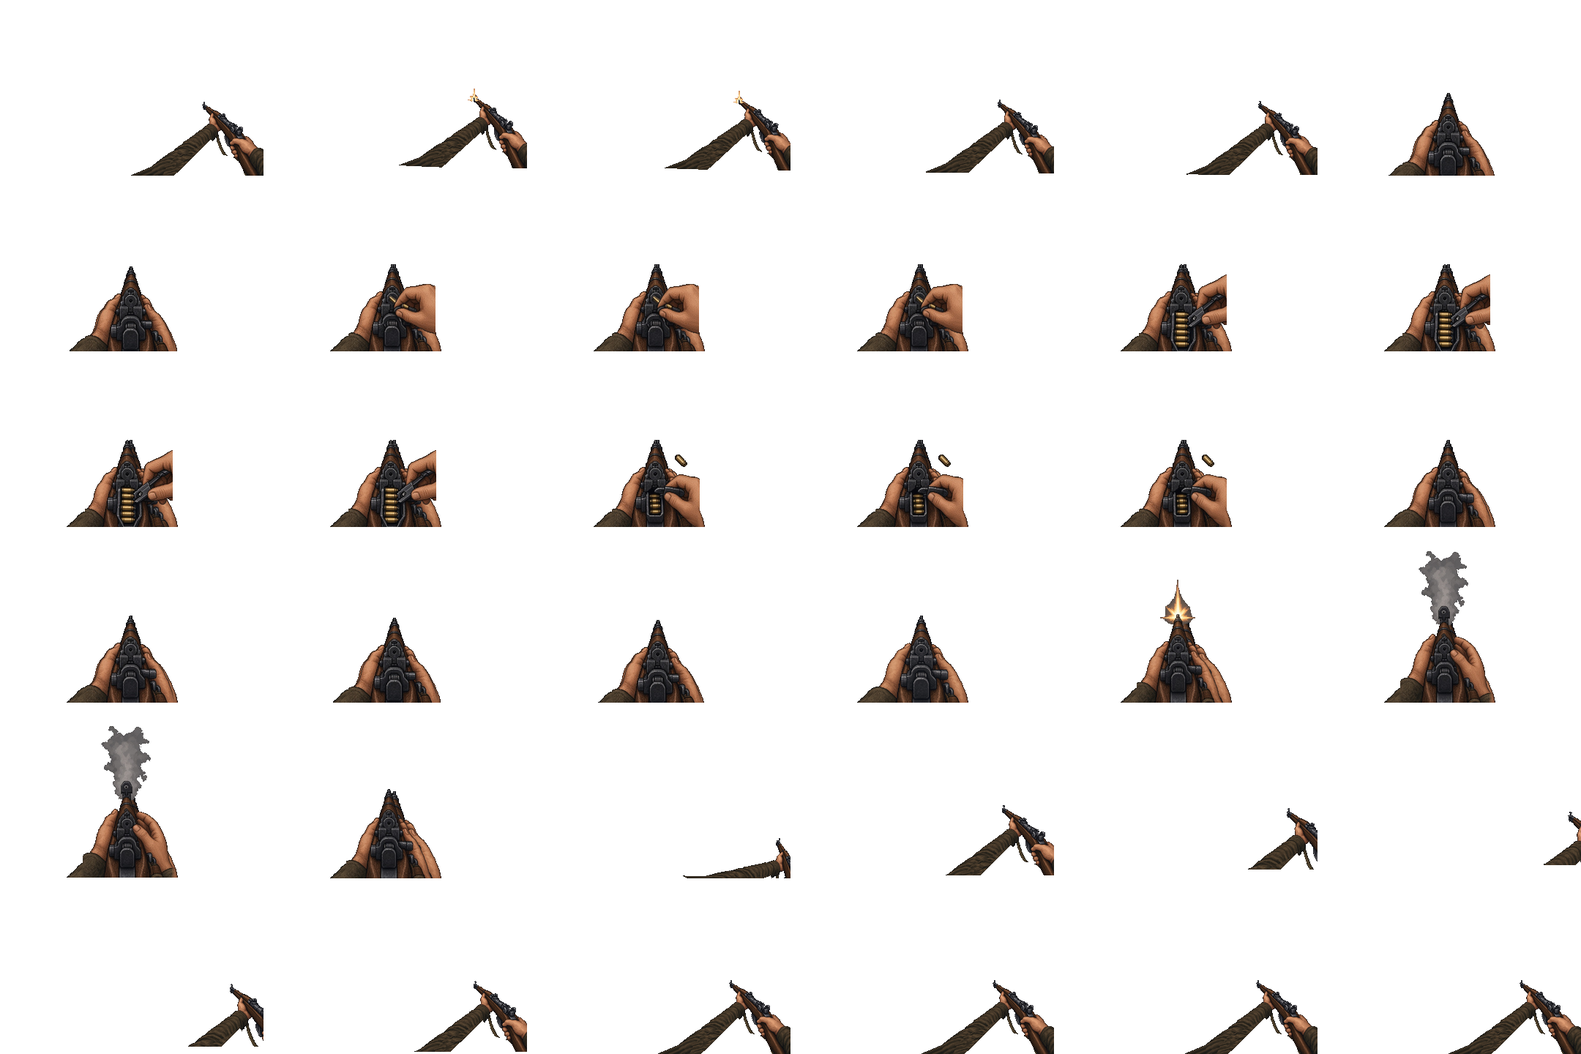
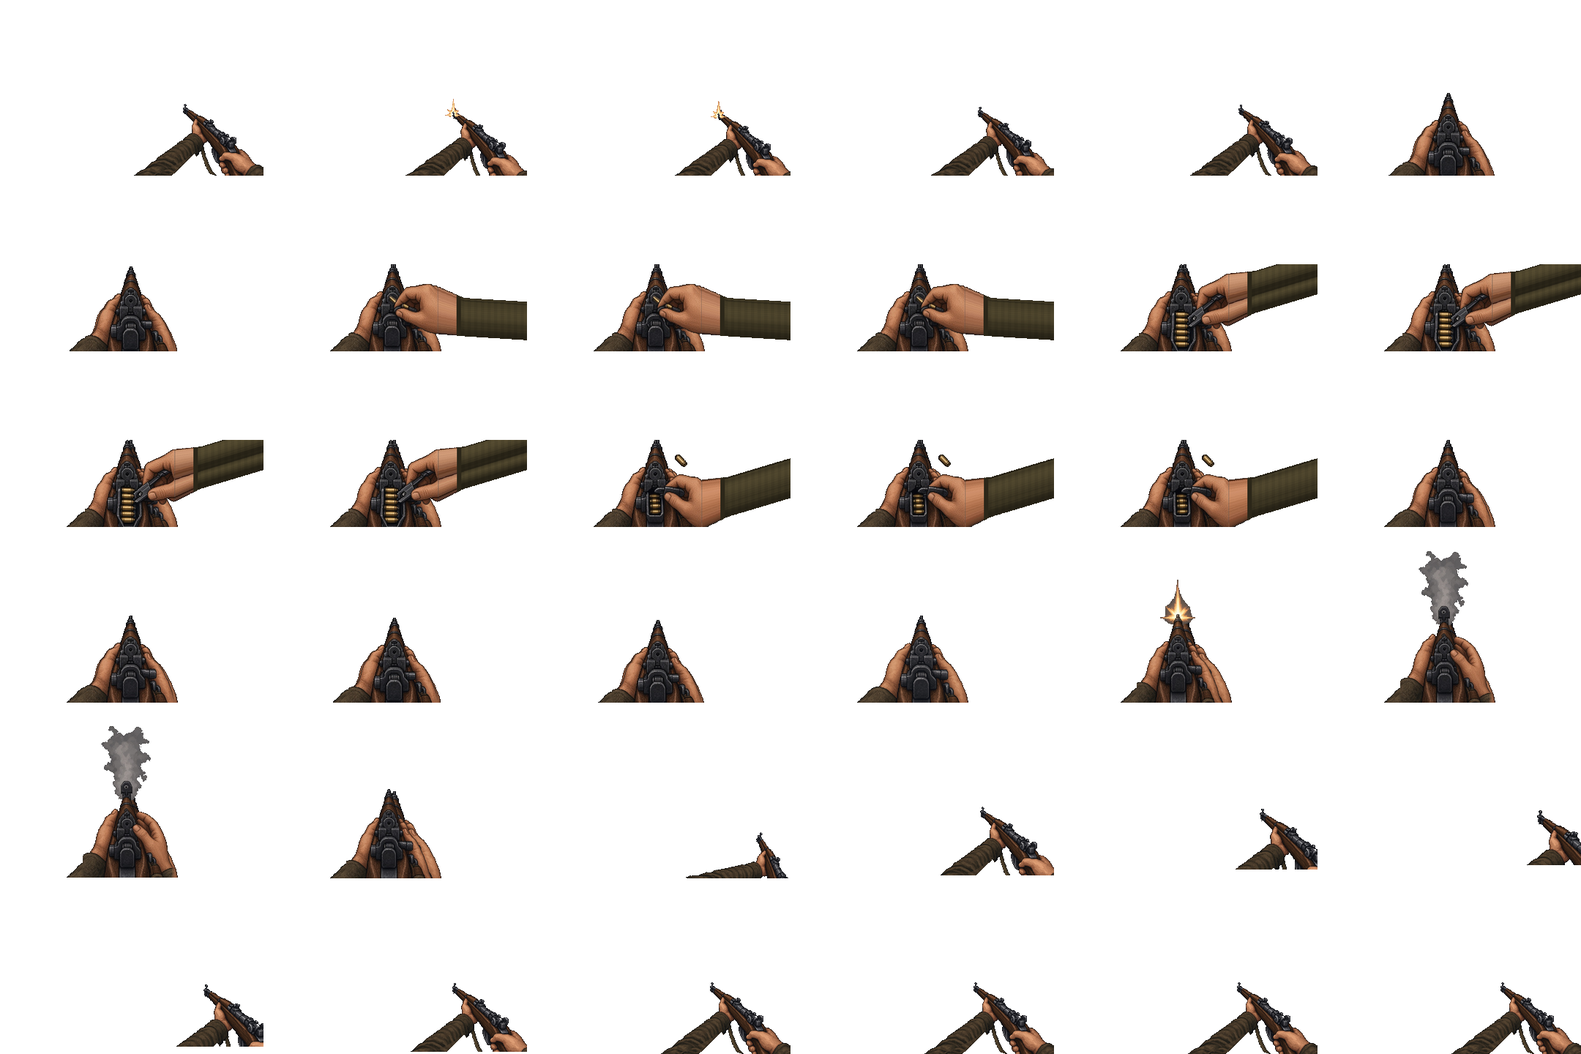
v0.39.1: rifle hip/recoil/reload art, lag readout (ping, server tick, fps)
Rifle hip view larger and lower (normal forearm), recoil straight back,
reload hand continued as a sleeve instead of a mid-air cut; carbine and
anti-tank rifle sheets rebuilt from the same art.

The corner readout adds the server's slowest recent tick and the
client's frame rate, and shows how long no data has arrived. The server
logs event-loop stalls and connections that are not keeping up. Gun
layer promoted; hit overlay cleared only when used.

Claude-Session: https://claude.ai/code/session_01RvCqKUzwLL4jv3Q2soH2oR

diff --git a/public/index.html b/public/index.html
@@ -68,7 +68,7 @@ body.menu #chat{display:none}
 body.menu #item,body.menu #fx,body.menu #mud,body.menu #supv,body.menu #chgv,body.menu #chg,body.menu #kf,body.menu #wheel,body.menu #maskv,body.menu #kn,body.menu #dpb,body.menu #gasv,body.menu #swt,body.menu #brt,body.menu #alf{display:none}
 #hurt{position:fixed;inset:0;background:radial-gradient(transparent 40%,#a00 100%);opacity:0;pointer-events:none}
 #vv{position:fixed;inset:0;width:100%;height:100%;image-rendering:pixelated;pointer-events:none;display:none}body.menu #vv{display:none!important}
-#item{display:none}#gun,#item{--gw:max(150vh,100vw);position:fixed;top:50%;left:50%;width:var(--gw);height:calc(var(--gw) / 1.5);margin-left:calc(var(--gw) / -2);margin-top:calc(var(--gw) / -3);image-rendering:pixelated;pointer-events:none}   /* v0.29: always as wide as the screen (hands and stocks reach the edges), centre on the screen centre */
+#item{display:none}#gun,#item{will-change:transform;--gw:max(150vh,100vw);position:fixed;top:50%;left:50%;width:var(--gw);height:calc(var(--gw) / 1.5);margin-left:calc(var(--gw) / -2);margin-top:calc(var(--gw) / -3);image-rendering:pixelated;pointer-events:none}   /* v0.29: always as wide as the screen (hands and stocks reach the edges), centre on the screen centre */
 #tut{pointer-events:auto;position:fixed;top:64px;left:50%;transform:translateX(-50%);z-index:15;display:none;max-width:min(560px,92vw);background:#1b1a14e8;border:1px solid #8a7a4a;border-radius:4px;padding:8px 12px 8px 14px;color:#eee;font:14px 'Courier New',monospace;box-shadow:0 2px 10px #0008}#tut b{color:#e9c46a}#tut small{display:block;color:#aaa;margin-top:3px}#tut button{float:right;margin:0 0 4px 10px;background:#3a3526;color:#ddd;border:1px solid #776;font:12px monospace;padding:2px 7px;cursor:pointer}#tut i{display:block;height:3px;background:#333;margin-top:6px}#tut i b{display:block;height:3px;background:#e9c46a}
 #tc{position:fixed;inset:0;display:none;z-index:14;pointer-events:none;touch-action:none;user-select:none;-webkit-user-select:none}
 #tc button{pointer-events:auto;position:absolute;border-radius:50%;background:rgba(20,18,14,.42);border:2px solid rgba(222,204,150,.55);color:#efe3c0;font:bold 11px monospace;letter-spacing:.04em;padding:0;touch-action:none}
@@ -694,7 +694,7 @@ function onMsg(m){
   case'wh':whistleSnd();$('banner').innerHTML='OVER THE TOP!<small>All squads attack '+String(m.n).replace(/[<>&]/g,'')+'</small>';$('banner').style.opacity=1;bannerT=performance.now()+4000;break;
   case'dr':addCrate(m);break;
   case'drx':{const c=crateM.get(m.id);if(c){scene.remove(c.m);crateM.delete(m.id)}break}
-  case'pong':ping=Math.round(performance.now()-m.c);pingAt=performance.now();break;
+  case'pong':ping=Math.round(performance.now()-m.c);pingAt=performance.now();srvMs=m.s|0;srvGap=m.g|0;break;
   case'opn':opBanner(m);break;
   case'oob':oobUntil=m.s?performance.now()+m.s*1000:0;break;
   case'end':roundState='ended';overlay('<h1>'+(m.win===0?'BLUE':'GREEN')+' WINS THE TERRITORY</h1>'+(opS?(opS[0]===me.team?(m.win===me.team?'Your attack broke through every line.':'Your attack ran out of men.'):(m.win===me.team?'Your line held. The enemy is spent.':'The enemy broke through your last line.')):(m.win===me.team?'Your side broke the line.':'Your side was overrun.'))+'<br>Next round the sides swap: attackers defend.'+'<br>New round starting shortly…'+aarHtml(m),'');document.exitPointerLock();break;
@@ -953,7 +953,7 @@ function connectScreen(){let nm='';try{nm=localStorage.getItem('t128name')||''}c
  <b>Wrecked guns.</b> Shells knock out MG nests, field guns and AA guns; hold E beside one to repair it (sappers are fastest).<br>
  <b>Phones.</b> Touch controls turn on by themselves; play in landscape. The ✎ button lets you move the buttons where you like.<br>
  <b>Your career.</b> Every game earns XP toward 100 levels and the ranks up to General. Your service record is on this screen.
- </div></details><div class="ver">v0.39</div>`,'');
+ </div></details><div class="ver">v0.39.1</div>`,'');
  $('cn').onclick=()=>{const n=$('nm').value.trim();const hv=$('host').value.trim();if(!hv){$('ovb').querySelector('.err').textContent='Enter the server address';return}try{localStorage.setItem('t128name',n);localStorage.setItem('t128host',hv)}catch(e){}AC=AC||new (window.AudioContext||window.webkitAudioContext)();sfxLoad();connect(n,$('host').value.trim())};
  $('nm').onkeydown=e=>{if(e.key==='Enter')$('cn').click()};$('pw').onkeydown=e=>{if(e.key==='Enter')$('lg').click()};
  if(LNCH&&typeof LNCH.back==='function'){const b=document.createElement('button');b.id='lnb';b.textContent='Back to launcher';b.onclick=()=>LNCH.back();$('rg').after(' ',b)}if(autoJoin&&$('nm').value.trim()){autoJoin=false;setTimeout(()=>{if($('cn'))$('cn').click()},60)}
@@ -1110,14 +1110,19 @@ function stepSnd(f,s,bits){if(me.sld>0||!me.alive||me.cl||me.y>T.groundAt(terr.H
 /* v0.38: your own shot (kick, sound, tracer) is shown the instant you fire, not when the server's answer comes back a ping
    later. predTick mirrors the server's own rules (rate of fire, sprint-to-fire delay, semi-automatic trigger); each shot the
    server then confirms is matched against a shown one, and a shown shot that is never confirmed is simply forgotten. */
-const predAt=[];let pCd=0,pSpr=0,pHold=false,netGap=0,netGapAt=0,lastSnapAt=0,pingAt=0;
+const predAt=[];let pCd=0,pSpr=0,pHold=false,netGap=0,netGapAt=0,lastSnapAt=0,pingAt=0,srvMs=0,srvGap=0,nfN=0,nfT=0,nfMax=0,nfFps=0,nfWorst=0,nfLast=0;
 function shotFx(){const W=WPN[me.w]||{},cp=Math.cos(me.pitch),dx=-Math.sin(me.yaw)*cp,dy=Math.sin(me.pitch),dz=-Math.cos(me.yaw)*cp;TUT.shot=1;gunKick=W.flame?.25:1;gFire=0;recoil();if(!(W.flame&&!me.mg))ownShot(me.mg?'mg':me.w);if(me.mg||(W.pel===1&&!W.flame))tracer(me.x,me.y+me.eye,me.z,dx,dy,dz,me.mg?140:W.rng,true,me.mg?420:W.vel)}
 function predTick(dt,bits,f,s){pCd-=dt;pSpr=(bits&1)&&(f||s)&&!me.mg?.18:pSpr-dt;const want=!!(bits&8),W=WPN[me.w],now=performance.now();
  while(predAt.length&&now-predAt[0]>ping*1.5+700)predAt.shift();
  if(want&&W&&!W.flame&&me.alive&&!me.mg&&!myVeh&&!me.elite&&!me.rel&&!me.charging&&!me.cl&&!me.rg&&pSpr<=0&&pCd<=0&&(W.auto||!pHold)&&(me.ammo|0)-predAt.length>0&&!(maskAt>now)){pCd=W.cd*(me.cls==='rifleman'&&me.w==='bolt'?.8:1);predAt.push(now);shotFx()}
  pHold=want}
-function netTick(now){const el=$('net');if(!deployed){if(el.textContent)el.textContent='';return}if(now-netGapAt>2500){netGap=0;netGapAt=now}
- const lost=lastSnapAt&&now-lastSnapAt>1500,rough=netGap>260,c=lost||ping>=180?'#e04030':ping>=90||rough?'#e0b040':'#8fbf6a',t=lost?'NO SIGNAL':'PING '+ping+' ms'+(rough?' · unsteady':'');if(el.textContent!==t)el.textContent=t;if(el.style.color!==c)el.style.color=c}
+/* v0.39 the corner readout says where a hitch comes from: PING = the round trip (it also rises when this PC is too busy to
+   read the answer in time), SERVER = its slowest tick in the last 2 s (over 50 ms it is falling behind), FPS = this PC, with the
+   slowest frame when one took over 50 ms. No data at all for 1.5 s: NO DATA and for how long. */
+function netTick(now){const el=$('net');if(nfLast){const d=now-nfLast;nfN++;nfT+=d;if(d>nfMax)nfMax=d}nfLast=now;if(nfT>1000){nfFps=Math.round(nfN*1000/nfT);nfWorst=Math.round(nfMax);nfN=nfT=nfMax=0}
+ if(!deployed){if(el.textContent)el.textContent='';return}if(now-netGapAt>2500){netGap=0;netGapAt=now}
+ const quiet=lastSnapAt?now-lastSnapAt:0,lost=quiet>1500,rough=netGap>260,busy=srvMs>=50||srvGap>=120,slow=nfWorst>50,c=lost||ping>=180?'#e04030':ping>=90||rough||busy||slow?'#e0b040':'#8fbf6a';
+ const t=lost?'NO DATA FROM SERVER '+(quiet/1000).toFixed(1)+' s':'PING '+ping+' ms'+(rough?' · unsteady':'')+' · SERVER '+srvMs+' ms'+(busy?' (busy)':'')+' · '+nfFps+' FPS'+(slow?' (worst frame '+nfWorst+' ms)':'');if(el.textContent!==t)el.textContent=t;if(el.style.color!==c)el.style.color=c}
 function recoil(){const w=me.mg?{rcl:.012}:WPN[me.w]||{},k=(w.rcl||.02)*(adsNow?.75:1)*(.85+Math.random()*.3);me.pitch=Math.min(1.45,me.pitch+k);me.yaw+=(Math.random()-.5)*k*.6;recPend+=k*.6;punch+=k*1.1}   /* muzzle climbs; about 60% settles back on its own */
 function feelTick(dt){
  if(recPend>0){const r=Math.min(recPend,recPend*dt*7+dt*.01);me.pitch-=r;recPend-=r}
@@ -1126,7 +1131,7 @@ function feelTick(dt){
  const ch=!!(me.charging&&me.alive&&deployed);$('chgv').style.opacity=ch?.9:Math.max(0,+$('chgv').style.opacity-dt*3)||0;
  const cb=$('chg'),wb=WPN[me.w];if(deployed&&me.alive&&!me.mg&&wb&&wb.bay&&me.chg!=null&&(me.chg<T.chgMax(me)-.01||ch)){cb.style.display='block';cb.firstChild.style.width=(me.chg/T.chgMax(me)*100)+'%'}else cb.style.display='none'}
 const fxc=$('fx').getContext('2d'),mdc=$('mud').getContext('2d');
-function fxDraw(dt){fxc.clearRect(0,0,360,240);if(!deployed||!me.alive)ddL.length=0;
+let fxDirty=false;function fxDraw(dt){if(fxDirty||ddL.length){fxc.clearRect(0,0,360,240);fxDirty=ddL.length>0}if(!deployed||!me.alive)ddL.length=0;
  for(let i=ddL.length-1;i>=0;i--){const d=ddL[i];d.t-=dt;if(d.t<=0){ddL.splice(i,1);continue}const ca=-Math.PI/2-(Math.atan2(-(d.x-me.x),-(d.z-me.z))-me.yaw),al=Math.min(1,d.t);
   fxc.lineWidth=5;fxc.strokeStyle='rgba(150,14,6,'+al*.85+')';fxc.beginPath();fxc.arc(180,120,46,ca-.38,ca+.38);fxc.stroke();fxc.lineWidth=2;fxc.strokeStyle='rgba(235,70,40,'+al*.8+')';fxc.beginPath();fxc.arc(180,120,51,ca-.2,ca+.2);fxc.stroke()}   /* red arc toward whoever hit you */
  if(mudA>0){mudA=Math.max(0,mudA-dt*.3);$('mud').style.opacity=Math.min(1,mudA)}}

diff --git a/server.js b/server.js
@@ -1978,6 +1978,18 @@ const PROF = new Map(); let profOn = true;
 const hr = () => Number(process.hrtime.bigint()) / 1e6;
 function prof(name, ms) { PROF.set(name, (PROF.get(name) || 0) + ms); }
 function guard(name, fn, a) { const t = profOn ? hr() : 0; try { fn(a); } catch (e) { const n = guardAt.get(name) || 0; if (Date.now() - n > 60000) { guardAt.set(name, Date.now()); console.error('[' + name + '] error (game keeps running):', e && e.stack || e); } } finally { if (profOn) prof(name, hr() - t); } }
+// v0.39 load shown to players: the worst tick and the worst wait between ticks over the last ~2 s ride on every pong, so a
+// player's own screen can tell a busy server from a bad connection or a slow PC. Long stalls are also logged.
+const LOADW = [[0, 0], [0, 0]]; let loadAt = 0, loadPrev = 0, netLogAt = 0;
+function loadNote(ms) {
+  const now = hr(), gap = loadPrev ? now - loadPrev : 0; loadPrev = now;
+  if (now - loadAt > 1000) { loadAt = now; LOADW[1] = LOADW[0]; LOADW[0] = [0, 0]; }
+  if (ms > LOADW[0][0]) LOADW[0][0] = ms; if (gap > LOADW[0][1]) LOADW[0][1] = gap;
+  if (gap > 400) console.log(`[stall] ${Math.round(gap)} ms between ticks (this tick ${ms.toFixed(1)} ms): the server process was held up (CPU taken by another program, or memory swapping)`);
+  if (now - netLogAt > 5000) { netLogAt = now; for (const p of humans) { if (!p.ws || !p.ws.open || !p.deployed) continue; const w = p.ws.socket.writableLength, idle = p.inAt ? now - p.inAt : 0;
+    if (w > 60000 || idle > 2500) console.log(`[net] ${p.name}: ${Math.round(w / 1024)} KB waiting to be sent, last input ${Math.round(idle)} ms ago, ping ${p.ping == null ? '?' : p.ping} ms (their connection is not keeping up)`); } }
+}
+const loadNow = () => [Math.round(Math.max(LOADW[0][0], LOADW[1][0])), Math.round(Math.max(LOADW[0][1], LOADW[1][1]))];
 function tickBody() {
   const t0 = process.hrtime.bigint(); tickNo++; PROF.clear();
   { const now = hr(); if (lastTickAt) { const gap = now - lastTickAt; if (gap > gapMax) gapMax = gap; } lastTickAt = now; }
@@ -2003,7 +2015,7 @@ function tickBody() {
   { const t = hr(); broadcastState(); prof('send', hr() - t); }
   if (bodies.length) { bcast({ t: 'bd', b: bodies.splice(0) }); }
   shots.length = 0; for (const e of ents.values()) if (e.flash > 0) e.flash--;
-  const ms = Number(process.hrtime.bigint() - t0) / 1e6; tickMs += ms; tickMax = Math.max(tickMax, ms);
+  const ms = Number(process.hrtime.bigint() - t0) / 1e6; tickMs += ms; tickMax = Math.max(tickMax, ms); loadNote(ms);
   if (ms > SLOW_MS) { slowN++; const top = [...PROF].sort((a, b) => b[1] - a[1]).slice(0, 4).map(([k, v]) => k + ' ' + v.toFixed(1)).join(', ');
     if (Date.now() - slowLogAt > 5000) { slowLogAt = Date.now(); console.log(`[slow tick ${tickNo}] ${ms.toFixed(1)} ms: ${top} (${humans.size} humans, ${ents.size} soldiers)`); } }
   if (xpDirty && tickNo % 200 === 0) saveXp();
@@ -2060,7 +2072,7 @@ function onText(c, txt) {
       else tell(p, 'Loadout will apply when you next respawn.');
     }
   } else if (m.t === 'in') {
-    if (!p.deployed || !Array.isArray(m.c)) return;
+    if (!p.deployed || !Array.isArray(m.c)) return; p.inAt = hr();
     for (const c2 of m.c.slice(0, 20)) if (Array.isArray(c2) && c2.length >= 7) p.q.push(c2);
     if (Number.isFinite(m.rt)) p.rw = clamp(tickNo - (m.rt | 0), 0, LAGC_MAX);   // how far behind the server this player's view is
     if (p.q.length > 60) p.q.splice(0, p.q.length - 60);
@@ -2071,7 +2083,7 @@ function onText(c, txt) {
   } else if (m.t === 'wxs' && process.env.T128_TEST && T.WXS[m.k]) { setWx(m.k);
   } else if (m.t === 'act') onAct(p, String(m.a), m);
   else if (m.t === 'cmd') { if (p.deployed && p.cmd && p.alive) { if (m.k === 'order') issueOrder(p, m); else if (m.k === 'sup') callSupport(p, m); } }
-  else if (m.t === 'ping') { if (Number.isFinite(m.p)) p.ping = clamp(Math.round(m.p), 0, 9999); send(p, { t: 'pong', c: m.c }); }   // the client reports the round trip it last measured (for the scoreboard)
+  else if (m.t === 'ping') { if (Number.isFinite(m.p)) p.ping = clamp(Math.round(m.p), 0, 9999); const ld = loadNow(); send(p, { t: 'pong', c: m.c, s: ld[0], g: ld[1] }); }   // the client reports the round trip it last measured (for the scoreboard)
   else if (m.t === 'chat') chatMsg(p, m);
   else if (m.t === 'sbq' && p.deployed && (p.sbAt || 0) <= tickNo) { p.sbAt = tickNo + TICK; send(p, { t: 'sb', s: [scoreRows(0, p), scoreRows(1, p)] }); }
 }

diff --git a/test/browser_v38.js b/test/browser_v38.js
@@ -25,7 +25,8 @@ const sleep = ms => new Promise(r => setTimeout(r, ms));
   ck('gunNeverLeftHidden', await a.evaluate(() => new Promise(res => { itemPlay([0, 1], .05); setTimeout(() => res(getComputedStyle($('gun')).opacity === '1' && !itemHid && $('item').style.display === 'none'), 500); })));
   ck('gunWakeRestores', await a.evaluate(() => new Promise(res => { gunWake(); setTimeout(() => res(getComputedStyle($('gun')).opacity === '1' && gIdx !== -1), 300); })));
   // ---- ping chip and scoreboard column
-  await a.waitForFunction(() => /PING \d+ ms/.test($('net').textContent), null, { timeout: 6000 }).catch(() => {}); ck('pingChip', await a.evaluate(() => /PING \d+ ms/.test($('net').textContent) && getComputedStyle($('net')).display !== 'none'));
+  await a.waitForFunction(() => /PING \d+ ms/.test($('net').textContent), null, { timeout: 6000 }).catch(() => {}); await a.waitForFunction(() => /FPS/.test($('net').textContent) && nfFps > 0, null, { timeout: 6000 }).catch(() => {}); ck('pingChip', await a.evaluate(() => /PING \d+ ms · SERVER \d+ ms.* · \d+ FPS/.test($('net').textContent) && getComputedStyle($('net')).display !== 'none'));
+  ck('noDataReadout', await a.evaluate(() => { const sv = lastSnapAt; lastSnapAt = performance.now() - 3200; netTick(performance.now()); const t = $('net').textContent; lastSnapAt = sv; return /NO DATA FROM SERVER 3\.\d s/.test(t); }));
   await sleep(2200); ck('pingOnScoreboard', await a.evaluate(() => new Promise(res => { sendJ({ t: 'sbq' }); setTimeout(() => { const me_ = $('sb').querySelector('tr.me'); res(/<th>ping<\/th>/.test($('sb').innerHTML) && !!me_ && /^\d+$/.test(me_.lastElementChild.textContent)); }, 700); })));
   // ---- building respawn point: the radio, not the sandbag ring
   ck('radioModel', await a.evaluate(() => { const n0 = fposts.size; syncPosts([[901, me.team, 5, 120, 1e9, 0, [3.2, 118.4, .4, hAt(3.2, 118.4)]], [902, me.team, 30, 120, 300, 0, 0]]); const r = fposts.get(901), p = fposts.get(902);

diff --git a/build/fpv_guns.py b/build/fpv_guns.py
@@ -121,13 +121,19 @@ def build(kind, out=None, m=1.0):
     hip, aim = body_off(hip_n, cut(hip_src)), cut(aim_src)
     # aim view: the whole width, the sight tip on row 121 (just under the centre dot)
     tip = top_y(aim, 492, 532); k = AIM_K * m; AIM = View(k, FW / 2 - 512 * k, 121 - tip * k)
-    HIP = hip_view(hip, HIP_H * m); muz = (470, 350) if kind == 'bolt' else (190, 300)
+    # v0.39: the rifle's hip picture was drawn from further back than the trench gun's, so at the same height it showed a small
+    # rifle on the end of a long thin sleeve. It is now 1.32x larger and set lower, so the forearm leaves the frame at the bottom
+    # as the trench gun's does (the far end of the sleeve is simply below the screen).
+    HZ, DROP = (1.32, 30) if kind == 'bolt' else (1, 0)
+    HIP = hip_view(hip, HIP_H * m * HZ); HIP.oy += DROP * m; muz = (470, 350) if kind == 'bolt' else (190, 300)
     flash, smoke = flash_and_smoke(); frames = [None] * SLOTS
     base_hip = [(extend_left(hip), (-EXT, 0))]; base_aim = [(aim, (0, 0))]
     frames[0] = HIP.frame(base_hip)
     fl = flash.resize((int(flash.size[0] * 1.1), int(flash.size[1] * 1.1)))
     fpos = (muz[0] - fl.size[0] // 2, muz[1] - fl.size[1] // 2)
-    kick = [(6, -10, 2.5), (9, -7, 2), (5, -3, 1), (2, -1, .4)]
+    # recoil: the trench gun jumps up; the rifle comes straight back into the shoulder (down and right, muzzle lifting a little).
+    # The old upward jump pulled 10 rows of extra sleeve into view for two frames, which read as the arm stretching.
+    kick = [(6, 6, 1.4), (9, 8, 1.1), (5, 4, .6), (2, 1, .2)] if kind == 'bolt' else [(6, -10, 2.5), (9, -7, 2), (5, -3, 1), (2, -1, .4)]
     for i, (dx, dy, r) in enumerate(kick): frames[1 + i] = HIP.frame(base_hip + ([(fl, fpos)] if i < 2 else []), dx=dx, dy=dy, rot=-r)
     frames[21] = AIM.frame(base_aim)
     atip = (512, tip)
@@ -141,7 +147,29 @@ def build(kind, out=None, m=1.0):
         frames[22], frames[23], frames[24], frames[25] = AIM.frame(fire_layer(1)), AIM.frame(fire_layer(2)), AIM.frame(fire_layer(2), dy=-1), AIM.frame(fire_layer(3))
         rl = img('e6cff9ba'); rb = [(0, 206, 255, 535), (260, 206, 510, 535), (515, 206, 766, 535), (770, 206, 1021, 535), (1026, 206, 1280, 535)]
         r0 = register(aim_src, rl.crop(rb[0])); rs, rx, ry = r0[1], r0[2], r0[3]
-        rp = [feather(cut(rl.crop(b))).resize((int((b[2] - b[0]) * rs), int((b[3] - b[1]) * rs)), Image.LANCZOS) for b in rb]
+        # v0.39: the loading hand runs off the right edge of its panel in the reference art, which showed as a straight vertical
+        # cut in mid-air. The wrist is now continued to the right along its own slope and off the screen: 50 px of skin, a cuff,
+        # then sleeve cloth in the uniform's colour (shaded like the wrist, so it keeps some form).
+        def arm_right(p_, px=760, skin=50):
+            w_, h_ = p_.size; a_ = np.asarray(p_).astype(np.float32); out = np.zeros((h_, w_ + px, 4), np.float32); out[:, :w_] = a_
+            def span(x):
+                ys = np.where(a_[:, x, 3] > 128)[0]; return (ys.min(), ys.max()) if len(ys) else None
+            s0, s1 = span(w_ - 3), span(w_ - 43)
+            if not s0: return p_
+            slope = 0 if not s1 else float(np.clip(((s0[0] - s1[0]) + (s0[1] - s1[1])) / 2 / 40, -.3, .12))   # rows per column, going right
+            col = a_[:, w_ - 3]; cloth = np.array([80, 71, 46], np.float32); lum = np.clip(col[:, :3].mean(1) / 150, .5, 1.1); ys0 = np.where(col[:, 3] > 128)[0]; cy = (ys0.min() + ys0.max()) / 2; rows = np.arange(h_)
+            for d in range(1, px + 1):
+                sh = int(round(slope * d)); src = np.zeros_like(col); sl = np.zeros_like(lum)
+                t = 1 - .2 * min(1, d / 70); idx = np.clip(np.round(cy + (rows - cy) / t).astype(int), -1, h_); ok = (idx >= 0) & (idx < h_); colT = np.zeros_like(col); colT[ok] = col[idx[ok]]; lumT = np.zeros_like(lum); lumT[ok] = lum[idx[ok]]   # the wrist narrows into the forearm
+                if abs(sh) >= h_: break
+                if sh >= 0: src[sh:] = colT[:h_ - sh]; sl[sh:] = lumT[:h_ - sh]
+                else: src[:h_ + sh] = colT[-sh:]; sl[:h_ + sh] = lumT[-sh:]
+                m_ = src[:, 3] > 128; x = w_ - 1 + d
+                rgb = src[:, :3] if d <= skin else (cloth * .55)[None, :].repeat(h_, 0) if d <= skin + 12 else cloth[None, :] * sl[:, None] * (1 - .07 * ((d // 9) % 2))
+                out[m_, x, :3] = rgb[m_]; out[m_, x, 3] = 255
+            return Image.fromarray(out.astype(np.uint8))
+        rp = [feather(arm_right(cut(rl.crop(b))) if 1 <= i <= 3 else cut(rl.crop(b))) for i, b in enumerate(rb)]
+        rp = [q.resize((int(q.size[0] * rs), int(q.size[1] * rs)), Image.LANCZOS) for q in rp]
         seq = [0, 0, 1, 1, 1, 2, 2, 2, 2, 3, 3, 3, 4, 4, 0, 0]   # raise, open bolt, clip in, strip / case out, close, lower
         for i, p in enumerate(seq): frames[5 + i] = AIM.frame(base_aim + [(rp[p], (rx, ry))], dy=[6, 3, 0, 0, 0, 0, 0, 0, 0, 0, 0, 0, 0, 0, 3, 6][i])
     else:

diff --git a/README.md b/README.md
@@ -73,6 +73,24 @@ Server → client binary: **type 3 delta snapshot** every tick (36-byte own-stat
 - At the full 128 v 128 (`--fill 128`, 270 soldiers) the server averages 13–14 ms a tick but its worst ticks reach 50–58 ms (one 20 Hz tick is 50 ms): a rare small hitch. At the default fill of 40 with 64 players: 5 ms average, 35 ms worst.
 
 # Changelog
+## v0.39.1 - rifle animation, and a readout that says where lag comes from
+- **Rifle in the hands** (also the carbine and anti-tank rifle, which share its art):
+  - The hip view is 1.3x larger and set lower, so the forearm leaves the screen at the bottom like the trench gun's instead of
+    a small rifle on the end of a long thin sleeve.
+  - Firing from the hip recoils straight back. The old upward jump dragged extra sleeve into view for two frames, which
+    looked like the arm stretching and snapping back.
+  - Reloading: the hand that feeds the clip ended in a straight vertical cut in mid-air (the reference picture stops there).
+    It now continues as a wrist and sleeve off the right of the screen.
+  - `build/fpv_guns.py` holds the changes; the three sheets were rebuilt with it.
+- **The corner readout now reads `PING 52 ms · SERVER 9 ms · 144 FPS`.** SERVER is the server's slowest tick in the last two
+  seconds (over 50 ms it is marked busy); a frame slower than 50 ms on your own PC is shown too; and when nothing arrives
+  for 1.5 s it says `NO DATA FROM SERVER 3.2 s`. PING also rises when the PC is too busy to read the reply, so the three
+  numbers together say whether a hitch is the server, the connection or the PC.
+- The server log now records a stall (`[stall] 900 ms between ticks ...`) and a player whose connection is not keeping up
+  (`[net] Name: 120 KB waiting to be sent, last input 3100 ms ago ...`).
+- Lighter HUD: the gun picture is on its own layer (moving it for the sprint bob and recoil no longer repaints it), and the
+  hit-direction overlay is only redrawn when it has something to show.
+
 ## v0.39 - customize your soldier
 - The **Customize** tab (before you deploy, and from Pause > Change loadout) is now a page per class:
   - **Slots** down the left: primary weapon, gadget, grenades, melee, class ability, and specializations (locked until the
